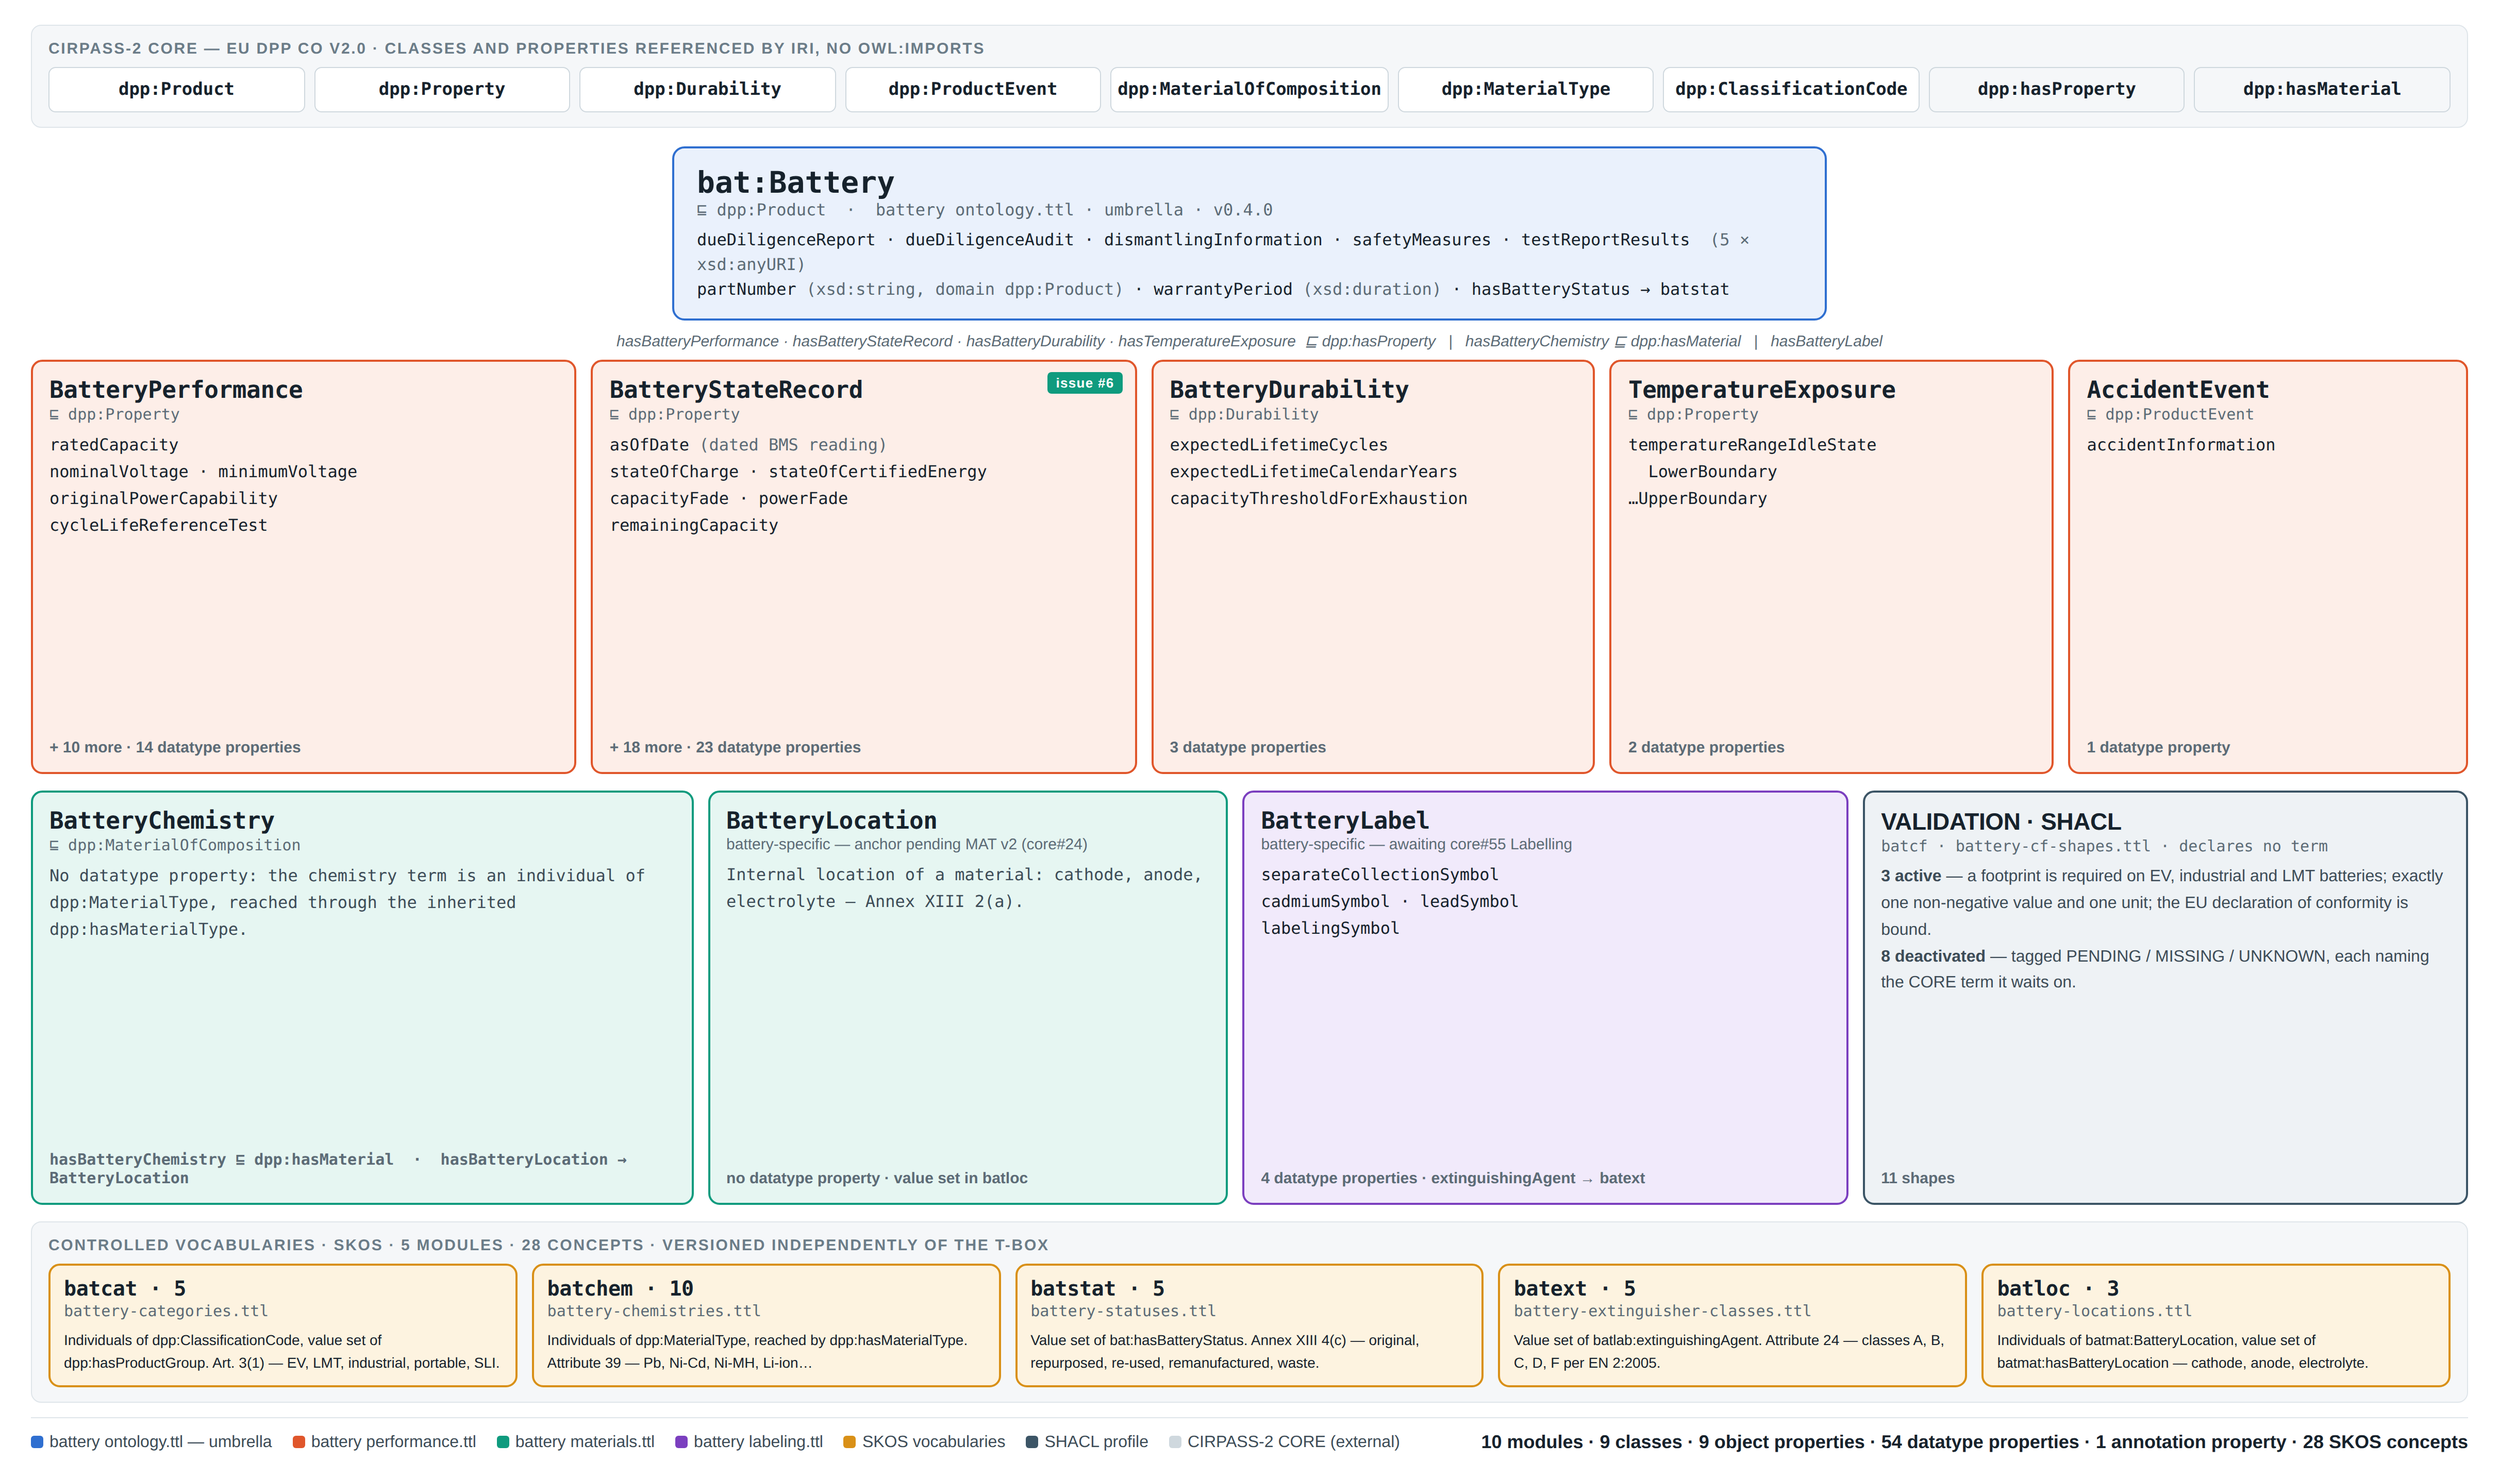
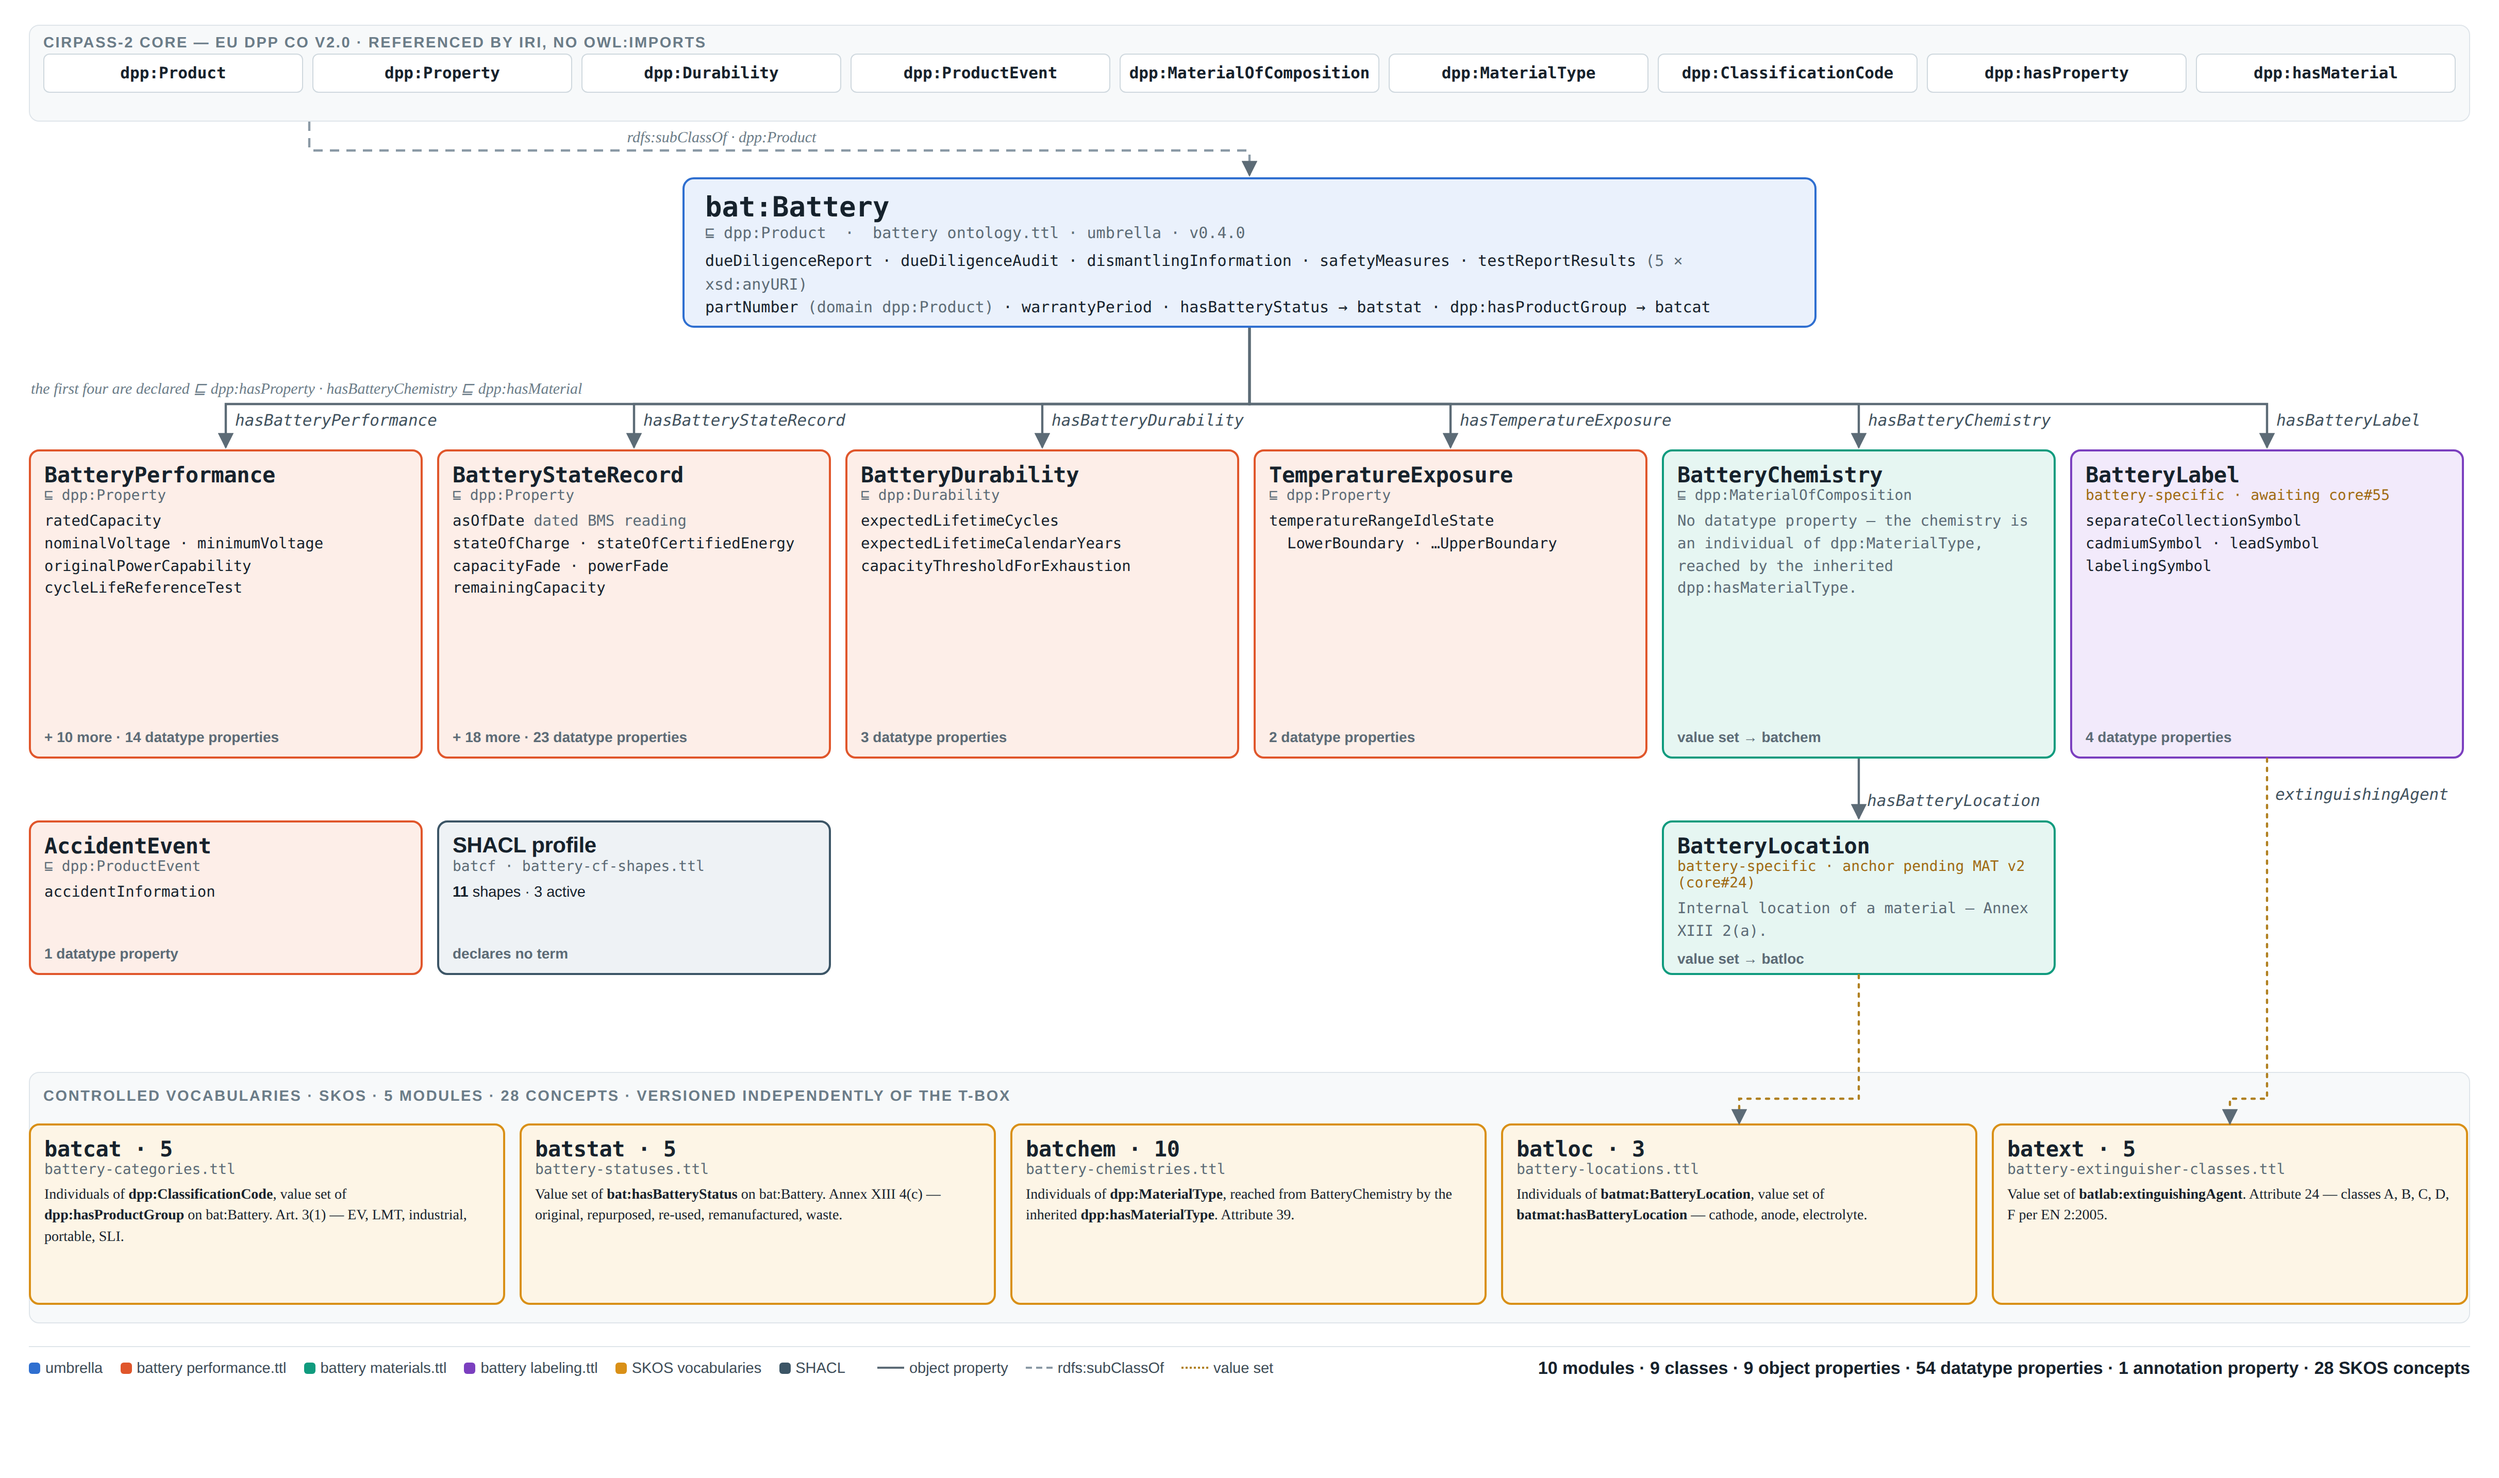
change license

Changed region(s): [[0.0, 0.4965, 0.9967, 0.993], [0.0, 0.0, 0.9656, 0.6827], [0.9033, 0.031, 0.9656, 0.0931]]

diff --git a/README.md b/README.md
@@ -120,6 +120,10 @@ Data point 9 of the Commission guidance — *the date of manufacturing (month an
 
 ## Changelog
 
+### All modules — 28 August 2026
+
+* **License aligned on Apache 2.0**, resolving the divergence between the ten TTL (CC BY 4.0) and this README. The modules now carry the same two statements as the CORE and TYRE ontologies: `dcterms:license <https://www.apache.org/licenses/LICENSE-2.0>` plus the CC BY 4.0 fallback for the document reading.
+
 ### Umbrella — 27 August 2026
 
 Answers data point 9 of the Commission guidance, through [ontologies-core#33](https://github.com/CIRPASS-2/ontologies-core/issues/33).
